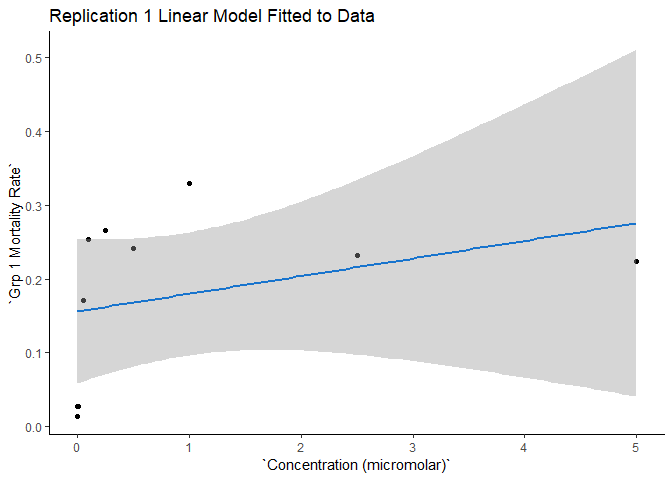
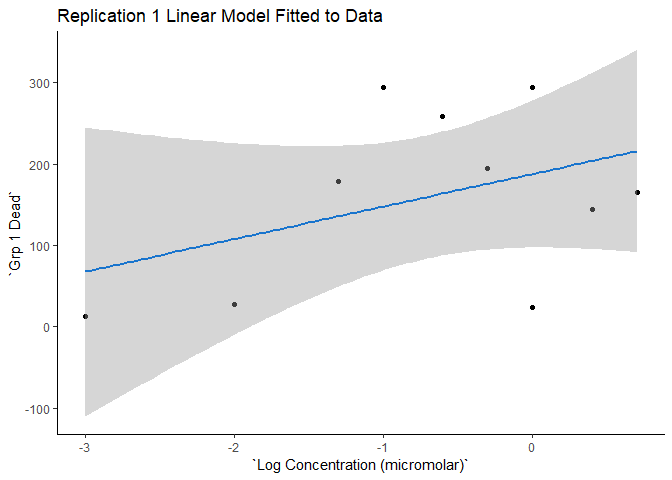
Replication 1 in log

diff --git a/CompToxAssn1.md b/CompToxAssn1.md
@@ -11,10 +11,10 @@ library(tidyverse)
 
     ## -- Attaching packages ---------------------------------------- tidyverse 1.2.1 --
 
-    ## v ggplot2 3.1.0     v purrr   0.2.5
-    ## v tibble  2.0.1     v dplyr   0.7.8
-    ## v tidyr   0.8.2     v stringr 1.3.1
-    ## v readr   1.3.1     v forcats 0.3.0
+    ## v ggplot2 3.1.0       v purrr   0.3.0  
+    ## v tibble  2.0.1       v dplyr   0.8.0.1
+    ## v tidyr   0.8.2       v stringr 1.4.0  
+    ## v readr   1.3.1       v forcats 0.4.0
 
     ## Warning: package 'ggplot2' was built under R version 3.5.2
 
@@ -27,6 +27,10 @@ library(tidyverse)
     ## Warning: package 'purrr' was built under R version 3.5.2
 
     ## Warning: package 'dplyr' was built under R version 3.5.2
+
+    ## Warning: package 'stringr' was built under R version 3.5.2
+
+    ## Warning: package 'forcats' was built under R version 3.5.2
 
     ## -- Conflicts ------------------------------------------- tidyverse_conflicts() --
     ## x dplyr::filter() masks stats::filter()
@@ -91,12 +95,6 @@ library(GGally)
     ##     nasa
 
 ``` r
-library(scatterplot3d)
-```
-
-    ## Warning: package 'scatterplot3d' was built under R version 3.5.2
-
-``` r
 library(MASS)
 par(mar = c(1,1,1,1))
 mortality = read_csv("./RotenoneMortalityRateLogged.csv")
@@ -111,133 +109,139 @@ mortality = read_csv("./RotenoneMortalityRateLogged.csv")
 
 ``` r
 ## Replication 1 - Logged Concentration Test Code
-## Local Regression - 50% smoothing span
-lo1 <- loess(mortality$`Grp 1 Mortality Rate`~mortality$`Concentration (micromolar)`, span = 0.50)
-plot(mortality$`Concentration (micromolar)`, mortality$`Grp 1 Mortality Rate`,
-     main = "Replication 1", sub = "Rotenone Dose-Response Curve",
-     xlab = "Rotenone Concentration (micromolar)", ylab = "Mortality Rate",
-     ylim = c(0, 0.45))
-x1 = seq(min(mortality$`Concentration (micromolar)`),
-         max(mortality$`Concentration (micromolar)`), 
-         (max(mortality$`Concentration (micromolar)`) -
-         min(mortality$`Concentration (micromolar)`))/1000)
-lines(x1, predict(lo1,x1), col = 'red', lwd = 2)
-fit1 = lm(mortality$`Concentration (micromolar)` ~ mortality$`Grp 1 Mortality Rate`) 
-summary(fit1)
+## Local Regression - 50% smoothing span of Log Concentration with Dead
+normplot = ggplot(mortality, aes(`Log Concentration (micromolar)`, `Grp 1 Dead`)) +
+    geom_point(size = 2) + geom_smooth(span = 0.5)
+  normplot + scale_x_log10() + xlim(-10, 10) + labs(title = "Replication 1, Rotenone   Dose-Response Curve")
 ```
 
-    ## 
-    ## Call:
-    ## lm(formula = mortality$`Concentration (micromolar)` ~ mortality$`Grp 1 Mortality Rate`)
-    ## 
-    ## Residuals:
-    ##     Min      1Q  Median      3Q     Max 
-    ## -1.2022 -0.8268 -0.4406 -0.1633  3.8431 
-    ## 
-    ## Coefficients:
-    ##                                  Estimate Std. Error t value Pr(>|t|)
-    ## (Intercept)                       0.08094    0.98679   0.082    0.937
-    ## mortality$`Grp 1 Mortality Rate`  4.81883    4.72512   1.020    0.338
-    ## 
-    ## Residual standard error: 1.62 on 8 degrees of freedom
-    ## Multiple R-squared:  0.115,  Adjusted R-squared:  0.004431 
-    ## F-statistic:  1.04 on 1 and 8 DF,  p-value: 0.3377
+    ## Scale for 'x' is already present. Adding another scale for 'x', which
+    ## will replace the existing scale.
 
-``` r
-fitted(fit1)
-```
-
-    ##         1         2         3         4         5         6         7 
-    ## 0.2119115 0.1511649 0.2127575 0.9039991 1.3022028 1.3610147 1.2453370 
-    ##         8         9        10 
-    ## 1.6692049 1.1965491 1.1568585
-
-``` r
-fit1 %>% 
-  broom::tidy()
-```
-
-    ## # A tibble: 2 x 5
-    ##   term                             estimate std.error statistic p.value
-    ##   <chr>                               <dbl>     <dbl>     <dbl>   <dbl>
-    ## 1 (Intercept)                        0.0809     0.987    0.0820   0.937
-    ## 2 mortality$`Grp 1 Mortality Rate`   4.82       4.73     1.02     0.338
-
-``` r
-pred1 = glm(factor(mortality$`Concentration (micromolar)`) ~ mortality$`Grp 1 Mortality Rate`, family = binomial(link = "logit"))
-summary(pred1)
-```
-
-    ## 
-    ## Call:
-    ## glm(formula = factor(mortality$`Concentration (micromolar)`) ~ 
-    ##     mortality$`Grp 1 Mortality Rate`, family = binomial(link = "logit"))
-    ## 
-    ## Deviance Residuals: 
-    ##      Min        1Q    Median        3Q       Max  
-    ## -1.54673   0.05413   0.07411   0.14427   0.96164  
-    ## 
-    ## Coefficients:
-    ##                                  Estimate Std. Error z value Pr(>|z|)
-    ## (Intercept)                        0.1789     1.5701   0.114    0.909
-    ## mortality$`Grp 1 Mortality Rate`  24.1835    33.6554   0.719    0.472
-    ## 
-    ## (Dispersion parameter for binomial family taken to be 1)
-    ## 
-    ##     Null deviance: 6.5017  on 9  degrees of freedom
-    ## Residual deviance: 4.0868  on 8  degrees of freedom
-    ## AIC: 8.0868
-    ## 
-    ## Number of Fisher Scoring iterations: 8
-
-``` r
-predict(pred1, type = "response")
-```
-
-    ##         1         2         3         4         5         6         7 
-    ## 0.6976561 0.6297867 0.6985508 0.9867371 0.9981813 0.9986455 0.9975821 
-    ##         8         9        10 
-    ## 0.9997112 0.9969134 0.9962357
-
-``` r
-pred1 %>%
-  broom::tidy()
-```
-
-    ## # A tibble: 2 x 5
-    ##   term                             estimate std.error statistic p.value
-    ##   <chr>                               <dbl>     <dbl>     <dbl>   <dbl>
-    ## 1 (Intercept)                         0.179      1.57     0.114   0.909
-    ## 2 mortality$`Grp 1 Mortality Rate`   24.2       33.7      0.719   0.472
-
-``` r
-dose.p(pred1,p = 0.5)
-```
-
-    ##                 Dose         SE
-    ## p = 0.5: -0.00739562 0.07190727
-
-``` r
-abline(lm(mortality$`Concentration (micromolar)` ~ mortality$`Grp 1 Mortality Rate`))
-```
+    ## `geom_smooth()` using method = 'loess' and formula 'y ~ x'
 
 ![](CompToxAssn1_files/figure-markdown_github/unnamed-chunk-1-1.png)
 
 ``` r
-data.frame(Concentration = mortality$`Concentration (micromolar)`, Mortality = mortality$`Grp 1 Mortality Rate`, Fitted = fitted(fit1), Predicted = predict(pred1, type = "response"))
+fit1log = lm(mortality$`Log Concentration (micromolar)` ~ mortality$`Grp 1 Dead`) 
+summary(fit1log)
 ```
 
-    ##    Concentration  Mortality    Fitted Predicted
-    ## 1          0.000 0.02718007 0.2119115 0.6976561
-    ## 2          0.001 0.01457399 0.1511649 0.6297867
-    ## 3          0.010 0.02735562 0.2127575 0.6985508
-    ## 4          0.050 0.17080153 0.9039991 0.9867371
-    ## 5          0.100 0.25343643 1.3022028 0.9981813
-    ## 6          0.250 0.26564103 1.3610147 0.9986455
-    ## 7          0.500 0.24163569 1.2453370 0.9975821
-    ## 8          1.000 0.32959641 1.6692049 0.9997112
-    ## 9          2.500 0.23151125 1.1965491 0.9969134
-    ## 10         5.000 0.22327470 1.1568585 0.9962357
+    ## 
+    ## Call:
+    ## lm(formula = mortality$`Log Concentration (micromolar)` ~ mortality$`Grp 1 Dead`)
+    ## 
+    ## Residuals:
+    ##     Min      1Q  Median      3Q     Max 
+    ## -1.6365 -0.6935 -0.1116  0.9462  1.3852 
+    ## 
+    ## Coefficients:
+    ##                         Estimate Std. Error t value Pr(>|t|)  
+    ## (Intercept)            -1.421424   0.640983  -2.218   0.0574 .
+    ## mortality$`Grp 1 Dead`  0.004456   0.003378   1.319   0.2237  
+    ## ---
+    ## Signif. codes:  0 '***' 0.001 '**' 0.01 '*' 0.05 '.' 0.1 ' ' 1
+    ## 
+    ## Residual standard error: 1.098 on 8 degrees of freedom
+    ## Multiple R-squared:  0.1786, Adjusted R-squared:  0.07596 
+    ## F-statistic:  1.74 on 1 and 8 DF,  p-value: 0.2237
+
+``` r
+fitted(fit1log)
+```
+
+    ##          1          2          3          4          5          6 
+    ## -1.3144841 -1.3634981 -1.3011166 -0.6238326 -0.1069579 -0.2673673 
+    ##          7          8          9         10 
+    ## -0.5525395 -0.1114137 -0.7797861 -0.6862140
+
+``` r
+fit1log %>% 
+  broom::tidy()
+```
+
+    ## # A tibble: 2 x 5
+    ##   term                   estimate std.error statistic p.value
+    ##   <chr>                     <dbl>     <dbl>     <dbl>   <dbl>
+    ## 1 (Intercept)            -1.42      0.641       -2.22  0.0574
+    ## 2 mortality$`Grp 1 Dead`  0.00446   0.00338      1.32  0.224
+
+``` r
+pred1log = glm(factor(mortality$`Log Concentration (micromolar)`) ~ mortality$`Grp 1 Dead`, family = binomial(link = "logit"))
+```
+
+    ## Warning: glm.fit: algorithm did not converge
+
+    ## Warning: glm.fit: fitted probabilities numerically 0 or 1 occurred
+
+``` r
+summary(pred1log)
+```
+
+    ## 
+    ## Call:
+    ## glm(formula = factor(mortality$`Log Concentration (micromolar)`) ~ 
+    ##     mortality$`Grp 1 Dead`, family = binomial(link = "logit"))
+    ## 
+    ## Deviance Residuals: 
+    ##        Min          1Q      Median          3Q         Max  
+    ## -5.176e-05   2.100e-08   2.100e-08   2.100e-08   6.247e-05  
+    ## 
+    ## Coefficients:
+    ##                         Estimate Std. Error z value Pr(>|z|)
+    ## (Intercept)              -68.278  39632.039  -0.002    0.999
+    ## mortality$`Grp 1 Dead`     3.681   1956.504   0.002    0.998
+    ## 
+    ## (Dispersion parameter for binomial family taken to be 1)
+    ## 
+    ##     Null deviance: 6.5017e+00  on 9  degrees of freedom
+    ## Residual deviance: 6.5811e-09  on 8  degrees of freedom
+    ## AIC: 4
+    ## 
+    ## Number of Fisher Scoring iterations: 25
+
+``` r
+predict(pred1log, type = "response")
+```
+
+    ##            1            2            3            4            5 
+    ## 1.000000e+00 1.339598e-09 1.000000e+00 1.000000e+00 1.000000e+00 
+    ##            6            7            8            9           10 
+    ## 1.000000e+00 1.000000e+00 1.000000e+00 1.000000e+00 1.000000e+00
+
+``` r
+pred1log %>%
+  broom::tidy()
+```
+
+    ## # A tibble: 2 x 5
+    ##   term                   estimate std.error statistic p.value
+    ##   <chr>                     <dbl>     <dbl>     <dbl>   <dbl>
+    ## 1 (Intercept)              -68.3     39632.  -0.00172   0.999
+    ## 2 mortality$`Grp 1 Dead`     3.68     1957.   0.00188   0.998
+
+``` r
+dose.p(pred1log,p = 0.5)
+```
+
+    ##              Dose       SE
+    ## p = 0.5: 18.55107 2919.175
+
+``` r
+data.frame(Concentration = mortality$`Log Concentration (micromolar)`, Mortality = mortality$`Grp 1 Dead`, Fitted = fitted(fit1log), Predicted = predict(pred1log, type = "response"))
+```
+
+    ##    Concentration Mortality     Fitted    Predicted
+    ## 1        0.00000        24 -1.3144841 1.000000e+00
+    ## 2       -3.00000        13 -1.3634981 1.339598e-09
+    ## 3       -2.00000        27 -1.3011166 1.000000e+00
+    ## 4       -1.30103       179 -0.6238326 1.000000e+00
+    ## 5       -1.00000       295 -0.1069579 1.000000e+00
+    ## 6       -0.60206       259 -0.2673673 1.000000e+00
+    ## 7       -0.30103       195 -0.5525395 1.000000e+00
+    ## 8        0.00000       294 -0.1114137 1.000000e+00
+    ## 9        0.39794       144 -0.7797861 1.000000e+00
+    ## 10       0.69897       165 -0.6862140 1.000000e+00
 
 ``` r
 ggpairs(data = mortality, columns = 1:5, title = "Group 1 Mortality Data - relationship between predictor and response variables")
@@ -246,7 +250,7 @@ ggpairs(data = mortality, columns = 1:5, title = "Group 1 Mortality Data - relat
 ![](CompToxAssn1_files/figure-markdown_github/unnamed-chunk-1-2.png)
 
 ``` r
-ggplot(data = mortality, aes(fit1$residuals)) + 
+ggplot(data = mortality, aes(fit1log$residuals)) + 
   geom_histogram(binwidth = 0.25, color = "black", fill = "purple4") +
   theme(panel.background = element_rect(fill = "white"),
         axis.line.x = element_line(),
@@ -257,7 +261,7 @@ ggplot(data = mortality, aes(fit1$residuals)) +
 ![](CompToxAssn1_files/figure-markdown_github/unnamed-chunk-1-3.png)
 
 ``` r
-ggplot(data = mortality, aes(x = `Concentration (micromolar)`, y = `Grp 1 Mortality Rate`)) + geom_point()  +
+ggplot(data = mortality, aes(x = `Log Concentration (micromolar)`, y = `Grp 1 Dead`)) + geom_point()  +
   stat_smooth(method = "lm", col = "dodgerblue3") +
   theme(panel.background = element_rect(fill = "white"),
         axis.line.x = element_line(),
